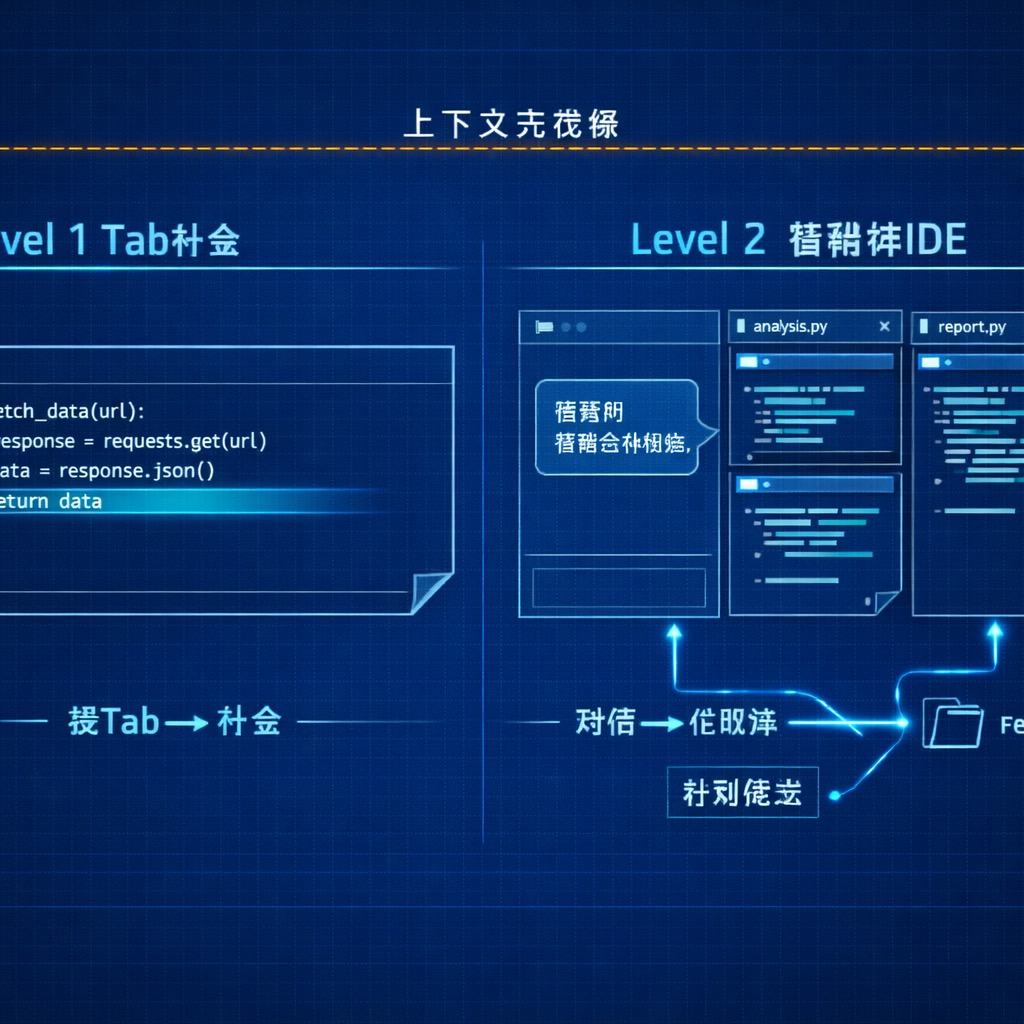
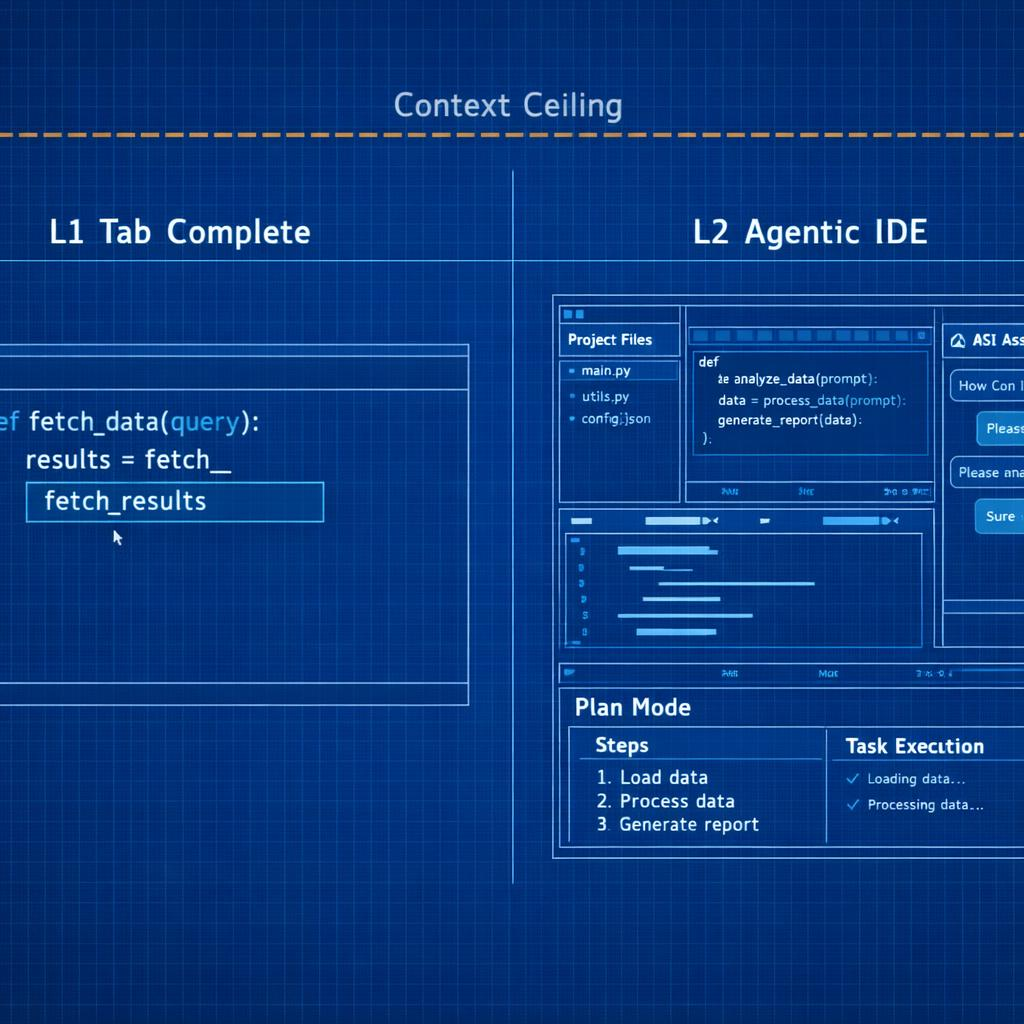
feat: regenerate 8 illustrations with English labels - fix Chinese garbling and edge clipping

diff --git a/illustrations/agentic-engineering/prompts/08-infographic-autonomous-teams.md b/illustrations/agentic-engineering/prompts/08-infographic-autonomous-teams.md
@@ -4,19 +4,18 @@ type: infographic
 style: blueprint
 ---
 
-自主智能体团队 - 去中心化协调网络
+Autonomous Agent Teams - Decentralized Mesh vs Hub-and-Spoke
 
-Layout: mesh network topology, contrast with hub-and-spoke
+Layout: left-right comparison, centered
 
 ZONES:
-- Zone 1 (左侧 "第7级"): 小型中心辐射式图，中心编排器连接工作者，标注"中心辐射式 — 有瓶颈"
-- Zone 2 (右侧 "第8级"): 网状拓扑，6个智能体节点互相直接连接，无中心，标注"去中心化 — 直接协调"
-- Zone 3 (右侧节点标注): 每条连接线标注功能 — "认领任务"、"共享发现"、"标记依赖"、"解决冲突"
-- Zone 4 (底部): 现实检查 — "模型还没准备好：太慢、太贵 → 第7级才是当前杠杆"
+- Left (dimmer): small hub-and-spoke diagram, center orchestrator with 4 workers, label "L7: Hub & Spoke — Bottleneck"
+- Right (brighter): mesh network, 6 nodes all interconnected without center, label "L8: Mesh — Direct Coordination"
+- Arrow between them showing evolution
 
-LABELS: 第7级 中心辐射, 第8级 去中心化, 认领任务, 共享发现, 标记依赖, 解决冲突, 当前前沿, 第7级=杠杆所在
-COLORS: Deep Blue (#1A2B4A) background, Cyan (#00D4FF) for Level 8 nodes, Gray (#6B7280) for Level 7 (dimmed comparison), Electric Blue (#0066FF) for mesh connections, Amber (#FFB800) for reality check warning
-STYLE: Blueprint technical drawing. Grid background. Mesh topology with glowing connection lines. Contrast between centralized (dimmer) and decentralized (brighter) layouts. Monospace labels.
+LABELS: L7 Hub & Spoke, L8 Mesh Network, Bottleneck, Direct Coordination, Claim Tasks, Share Findings, Flag Dependencies
+COLORS: Deep Blue (#1A2B4A) background, Gray (#6B7280) for L7 (dimmed), Cyan (#00D4FF) for L8 nodes, Electric Blue (#0066FF) mesh connections, Amber (#FFB800) evolution arrow
+STYLE: Blueprint technical drawing. Grid background. Mesh topology with glowing connections. Clear contrast between dim L7 and bright L8. Large monospace font.
 ASPECT: 16:9
 
-Clean composition with generous white space. Left-right comparison layout. Dark blue grid background.
+Clean composition. Left-right layout with clear separation. Wide margins. No edge clipping.

diff --git a/illustrations/agentic-engineering/prompts/01-infographic-8-levels-overview.md b/illustrations/agentic-engineering/prompts/01-infographic-8-levels-overview.md
@@ -4,23 +4,17 @@ type: infographic
 style: blueprint
 ---
 
-智能体工程8个段位总览 - 层级信息图
+The 8 Levels of Agentic Engineering - Overview Tower
 
-Layout: vertical hierarchical, bottom-to-top tower/staircase
+Layout: vertical tower/staircase, bottom-to-top, centered
 
 ZONES:
-- Zone 1 (底部): Level 1-2 基础层 — "Tab补全" "智能体IDE"，简单的代码编辑器图标
-- Zone 2: Level 3 "上下文工程" — prompt窗口图标，token过滤
-- Zone 3: Level 4 "复利工程" — 循环箭头，知识沉淀
-- Zone 4: Level 5 "MCP与技能" — 工具连接网络
-- Zone 5: Level 6 "工程脚手架" — 反馈循环环
-- Zone 6: Level 7 "后台智能体" — 中心辐射式多智能体
-- Zone 7 (顶部): Level 8 "自主智能体团队" — 网状去中心化
-- 右侧: 指数增长曲线，标注"每升一级，产出指数级跃升"
+- 8 ascending platforms, each labeled with level number and short English name
+- Right side: exponential growth curve
 
-LABELS: Level 1-8, Tab补全, 智能体IDE, 上下文工程, 复利工程, MCP与技能, 工程脚手架, 后台智能体, 自主智能体团队, 产出×10
-COLORS: Deep Blue (#1A2B4A) background, Cyan (#00D4FF) for level highlights, White (#FFFFFF) for labels, Electric Blue (#0066FF) for growth curve, Teal (#00B8A9) for connection lines
-STYLE: Blueprint technical drawing style. Fine grid lines on dark blue background. Glowing cyan accent lines. Clean geometric shapes. Monospace font for labels. Subtle glow effects on active elements.
-ASPECT: 9:16
+LABELS: L1 Tab Complete, L2 Agentic IDE, L3 Context Engineering, L4 Compounding, L5 MCP & Skills, L6 Harness & Backpressure, L7 Background Agents, L8 Autonomous Teams, Output x10
+COLORS: Deep Blue (#1A2B4A) background, Cyan (#00D4FF) highlights, White (#FFFFFF) labels, Electric Blue (#0066FF) growth curve
+STYLE: Blueprint technical drawing. Fine grid on dark blue. Glowing cyan accents. Clean geometric platforms. Large readable monospace font.
+ASPECT: 1:1
 
-Clean composition with generous white space between levels. Simple dark blue background with subtle grid. Main elements centered vertically.
+Clean composition with generous white space between levels. Keep all elements well within frame margins. No edge clipping.

diff --git a/illustrations/agentic-engineering/prompts/07-infographic-background-agents.md b/illustrations/agentic-engineering/prompts/07-infographic-background-agents.md
@@ -4,20 +4,19 @@ type: infographic
 style: blueprint
 ---
 
-后台智能体 - 中心辐射式编排架构
+Background Agents - Hub-and-Spoke Orchestration
 
-Layout: hub-and-spoke with model diversity
+Layout: hub-and-spoke with 3 colored workers, centered
 
 ZONES:
-- Zone 1 (中心): "指挥中心"主会话节点，人类操作者图标
-- Zone 2 (辐射工作者): 三个并行工作者在独立上下文中 — Opus(实现，蓝色)、Gemini(研究，绿色)、Codex(审查，紫色)，每个有自己的工作树
-- Zone 3 (左侧): Dispatch调度流程 — 规划→委派→跟踪，卡住时抛出澄清问题
-- Zone 4 (右侧): 本地 vs 云端对比 — Dispatch(本地，快速反馈) vs Inspect(云端VM，规模化)
-- Zone 5 (底部): CI集成 — 文档机器人、安全审查器、依赖更新机器人
+- Center top: "Command Center" node with human operator icon
+- 3 worker nodes below, each in different color: Opus (blue, "Implement"), Gemini (green, "Research"), Codex (purple, "Review")
+- Async arrows from center to workers
+- Small clock icon indicating background/async execution
 
-LABELS: 指挥中心, Opus实现, Gemini研究, Codex审查, Dispatch, 异步运行, 实现者≠审查者, 群体智慧
-COLORS: Deep Blue (#1A2B4A) background, Cyan (#00D4FF) for command center, Blue (#4488FF) for Opus, Green (#00CC88) for Gemini, Purple (#AA66FF) for Codex, Electric Blue (#0066FF) for dispatch lines
-STYLE: Blueprint technical drawing. Grid background. Hub-and-spoke layout with different colored worker nodes. Async arrows with clock icons. Monospace labels. Glow effects on active workers.
+LABELS: Command Center, Opus: Implement, Gemini: Research, Codex: Review, Async, Wisdom of Crowds
+COLORS: Deep Blue (#1A2B4A) background, Cyan (#00D4FF) command center, Blue (#4488FF) Opus, Green (#00CC88) Gemini, Purple (#AA66FF) Codex, White (#FFFFFF) labels
+STYLE: Blueprint technical drawing. Grid background. Hub-and-spoke with colored worker nodes. Async arrows with clock icons. Large monospace font.
 ASPECT: 16:9
 
-Clean composition with generous white space. Command center in upper-center, workers radiating below. Dark blue grid background.
+Clean composition. Command center upper-center, workers below. Wide margins.

diff --git a/illustrations/agentic-engineering/prompts/06-infographic-harness-backpressure.md b/illustrations/agentic-engineering/prompts/06-infographic-harness-backpressure.md
@@ -4,19 +4,18 @@ type: infographic
 style: blueprint
 ---
 
-工程脚手架与反压 - 自动反馈循环系统
+Harness Engineering - Backpressure Feedback Loop
 
-Layout: central agent with surrounding feedback ring
+Layout: central agent with surrounding feedback ring, centered
 
 ZONES:
-- Zone 1 (中心): 智能体核心，标注"编写→验证→迭代"
-- Zone 2 (环绕反馈环): 四个反压机制节点围成闭环 — 类型系统→测试→Linter→Pre-commit Hook，每个节点有拦截错误的图标
-- Zone 3 (左侧): 两个原则框 — "为吞吐量设计，而非完美" "约束 > 指令"
-- Zone 4 (右侧): 安全边界示意 — 三个分离的信任域（智能体、生成的代码、密钥），标注"安全边界就是反压"
+- Center: Agent core node, label "Agent: Code → Verify → Iterate"
+- Ring: 4 feedback nodes in a loop — Type System → Tests → Linter → Pre-commit Hook
+- Errors shown as red X marks being intercepted by each node
 
-LABELS: 智能体, 类型系统, 测试, Linter, Pre-commit, 反压, 吞吐量>完美, 约束>指令, 信任域分离
-COLORS: Deep Blue (#1A2B4A) background, Cyan (#00D4FF) for agent core, Green (#00FF88) for passing checks, Red (#FF4444) for blocked errors, Electric Blue (#0066FF) for feedback arrows, Amber (#FFB800) for security boundaries
-STYLE: Blueprint technical drawing. Grid background. Feedback ring with directional arrows. Error interception shown as red X marks. Clean geometric shapes. Monospace labels.
+LABELS: Agent, Type System, Tests, Linter, Pre-commit, Backpressure, Throughput > Perfection, Constraints > Instructions
+COLORS: Deep Blue (#1A2B4A) background, Cyan (#00D4FF) agent core, Green (#00FF88) passing checks, Red (#FF4444) blocked errors, Electric Blue (#0066FF) feedback arrows
+STYLE: Blueprint technical drawing. Grid background. Feedback ring with directional arrows. Red X marks for errors. Clean geometric shapes. Large monospace font.
 ASPECT: 16:9
 
-Clean composition with generous white space. Agent centered with feedback ring. Dark blue grid background.
+Clean composition. Agent centered with feedback ring. Wide margins. No edge clipping.

diff --git a/illustrations/agentic-engineering/prompts/03-infographic-context-engineering.md b/illustrations/agentic-engineering/prompts/03-infographic-context-engineering.md
@@ -4,18 +4,18 @@ type: infographic
 style: blueprint
 ---
 
-上下文工程 - 信息密度可视化
+Context Engineering - Signal vs Noise
 
-Layout: left-right comparison
+Layout: left-right comparison, centered
 
 ZONES:
-- Zone 1 (左 "低密度"): 一个prompt窗口充满灰色噪音token块，有用信息（亮色）被淹没在噪音中，标注"嘈杂上下文"
-- Zone 2 (右 "高密度"): 同样的prompt窗口，只有精选的亮色token块，每个都标注了具体功能（系统提示词、工具描述、对话历史、活跃工具），标注"精准上下文"
-- Zone 3 (底部): 三个警示案例图标 — 小模型敏感性、重token工具（Playwright MCP）、工具schema过载
+- Left: prompt window filled with gray noise blocks and a few bright tokens buried inside, label "Noisy Context"
+- Right: clean prompt window with only bright curated tokens, each labeled (System Prompt, Tool Desc, Chat History), label "Curated Context"
+- Center arrow: "Signal/Noise Ratio UP"
 
-LABELS: 上下文工程, 嘈杂上下文, 精准上下文, 每个token都得拼命, 系统提示词, 工具描述, 对话历史, 信噪比↑
-COLORS: Deep Blue (#1A2B4A) background, Cyan (#00D4FF) for high-value tokens, Gray (#4A5568) for noise tokens, Red (#FF4444) for warning cases, Electric Blue (#0066FF) for arrows
-STYLE: Blueprint technical drawing. Grid background. Token blocks as rounded rectangles. Glow effects on high-value tokens. Monospace labels.
+LABELS: Noisy Context, Curated Context, Signal/Noise, System Prompt, Tool Desc, Chat History
+COLORS: Deep Blue (#1A2B4A) background, Cyan (#00D4FF) high-value tokens, Gray (#4A5568) noise, White (#FFFFFF) labels
+STYLE: Blueprint technical drawing. Grid background. Token blocks as rounded rectangles. Glow on high-value tokens. Large monospace font.
 ASPECT: 16:9
 
-Clean composition with generous white space. Dark blue grid background. Two prompt windows side-by-side for clear comparison.
+Clean composition. Wide margins. All elements well within frame.

diff --git a/illustrations/agentic-engineering/prompts/04-infographic-compounding-loop.md b/illustrations/agentic-engineering/prompts/04-infographic-compounding-loop.md
@@ -4,19 +4,18 @@ type: infographic
 style: blueprint
 ---
 
-复利工程 - 计划-委派-评估-沉淀循环
+Compounding Engineering - Plan-Delegate-Evaluate-Distill Loop
 
-Layout: circular flow with ascending spiral
+Layout: circular flow with growth spiral, centered
 
 ZONES:
-- Zone 1 (中心循环): 四个节点的循环 — 计划→委派→评估→沉淀，粗箭头连接，每个节点用几何图标表示
-- Zone 2 (沉淀节点特写): CLAUDE.md文件图标，标注"把教训固化到每个未来会话"
-- Zone 3 (右侧): 螺旋上升的产出曲线，每轮循环后产出线跳升一级，标注"复利效应"
-- Zone 4 (底部注释): "LLM是无状态的——不沉淀，同样的错误明天还会犯"
+- Center: 4-node cycle — Plan → Delegate → Evaluate → Distill, bold arrows connecting
+- Distill node highlighted (gold), with CLAUDE.md file icon
+- Right: ascending spiral curve showing output growth after each cycle
 
-LABELS: 计划, 委派, 评估, 沉淀, CLAUDE.md, 复利效应, 产出↑, 每一次改进累积到下一次
-COLORS: Deep Blue (#1A2B4A) background, Cyan (#00D4FF) for cycle nodes, Gold (#FFD700) for the 沉淀 node (key step), Electric Blue (#0066FF) for arrows, Teal (#00B8A9) for growth curve
-STYLE: Blueprint technical drawing. Grid background. Cycle nodes as hexagons. Bold directional arrows. Spiral growth line with glow effect. Monospace labels.
+LABELS: Plan, Delegate, Evaluate, Distill, CLAUDE.md, Compound Effect, Output UP
+COLORS: Deep Blue (#1A2B4A) background, Cyan (#00D4FF) cycle nodes, Gold (#FFD700) Distill node, Electric Blue (#0066FF) arrows, Teal (#00B8A9) growth curve
+STYLE: Blueprint technical drawing. Grid background. Hexagonal cycle nodes. Bold directional arrows. Spiral glow effect. Large monospace font.
 ASPECT: 16:9
 
-Clean composition with generous white space. Cycle centered, growth curve on the right. Dark blue grid background.
+Clean composition. Cycle centered with growth curve on right. Wide margins. No edge clipping.

diff --git a/illustrations/agentic-engineering/prompts/05-infographic-mcp-skills.md b/illustrations/agentic-engineering/prompts/05-infographic-mcp-skills.md
@@ -4,19 +4,18 @@ type: infographic
 style: blueprint
 ---
 
-MCP与技能 - 能力扩展网络
+MCP & Skills - Capability Network
 
-Layout: radial hub-and-spoke
+Layout: radial hub-and-spoke, centered
 
 ZONES:
-- Zone 1 (中心): LLM核心节点，发光球体，标注"从思考→操作"
-- Zone 2 (辐射节点): 8个工具节点环绕 — 数据库、API、CI流水线、设计系统、Playwright浏览器、Slack通知、评估日志(Braintrust)、开源文档(DeepWiki)
-- Zone 3 (右下角): CLI vs MCP对比小图 — MCP每轮注入完整schema(重)，CLI精准命令只返回相关输出(轻)
-- Zone 4 (底部): "技能和代码享受同等待遇：PR、审查、版本历史"
+- Center: glowing LLM core sphere, label "LLM: Think → Act"
+- 6 tool nodes radiating outward: Database, API, CI Pipeline, Browser, Slack, Docs
+- Each node has a simple geometric icon
 
-LABELS: LLM, 数据库, API, CI, 设计系统, 浏览器, Slack, 评估日志, 开源文档, MCP, CLI, token效率
-COLORS: Deep Blue (#1A2B4A) background, Cyan (#00D4FF) for LLM core, Teal (#00B8A9) for tool nodes, Electric Blue (#0066FF) for connection lines, Amber (#FFB800) for CLI highlight
-STYLE: Blueprint technical drawing. Grid background. Central glowing sphere. Tool nodes as geometric icons with subtle glow. Connection lines with data flow animation feel. Monospace labels.
+LABELS: LLM, Database, API, CI, Browser, Slack, Docs, Think → Act
+COLORS: Deep Blue (#1A2B4A) background, Cyan (#00D4FF) LLM core, Teal (#00B8A9) tool nodes, Electric Blue (#0066FF) connection lines, White (#FFFFFF) labels
+STYLE: Blueprint technical drawing. Grid background. Central glowing sphere. Tool nodes as simple geometric icons. Clean connection lines. Large monospace font.
 ASPECT: 16:9
 
-Clean composition with generous white space. Central hub with radial spokes. Dark blue grid background.
+Clean composition. Hub centered. All spokes well within frame. Wide margins.

diff --git a/illustrations/agentic-engineering/prompts/02-infographic-tab-to-ide.md b/illustrations/agentic-engineering/prompts/02-infographic-tab-to-ide.md
@@ -4,18 +4,18 @@ type: infographic
 style: blueprint
 ---
 
-Tab补全到智能体IDE的进化 - 对比信息图
+From Tab Completion to Agentic IDE
 
-Layout: left-right comparison with ceiling line
+Layout: left-right comparison, centered with wide margins
 
 ZONES:
-- Zone 1 (左): Level 1 Tab补全 — 代码编辑器中一个闪烁光标，灰色代码行被自动补全高亮，简单直接
-- Zone 2 (右): Level 2 智能体IDE — 多面板IDE界面，左侧对话窗口，右侧多文件编辑，连接线指向代码库
-- Zone 3 (顶部): 一条水平虚线标注"上下文天花板"，两侧都被这条线限制
+- Left: simple code editor with cursor and autocomplete highlight, label "L1 Tab Complete"
+- Right: multi-panel IDE with chat + codebase connection, label "L2 Agentic IDE"
+- Top: horizontal dashed line labeled "Context Ceiling"
 
-LABELS: Level 1 Tab补全, Level 2 智能体IDE, 上下文天花板, 按Tab→补全, 对话→代码库, 计划模式
-COLORS: Deep Blue (#1A2B4A) background, Cyan (#00D4FF) for highlights, Amber (#FFB800) for ceiling line (warning), White (#FFFFFF) labels, Electric Blue (#0066FF) for connection lines
-STYLE: Blueprint technical drawing. Grid background. Clean geometric UI mockups. Glowing accent lines. Monospace labels.
+LABELS: L1 Tab Complete, L2 Agentic IDE, Context Ceiling, Plan Mode
+COLORS: Deep Blue (#1A2B4A) background, Cyan (#00D4FF) highlights, Amber (#FFB800) ceiling line, White (#FFFFFF) labels
+STYLE: Blueprint technical drawing. Grid background. Clean geometric UI mockups. Glowing accents. Large monospace font.
 ASPECT: 16:9
 
-Clean composition with generous white space. Simple dark blue grid background. Main elements positioned left-right with clear visual separation.
+Clean composition. Keep all elements 10% away from edges. Generous white space.
